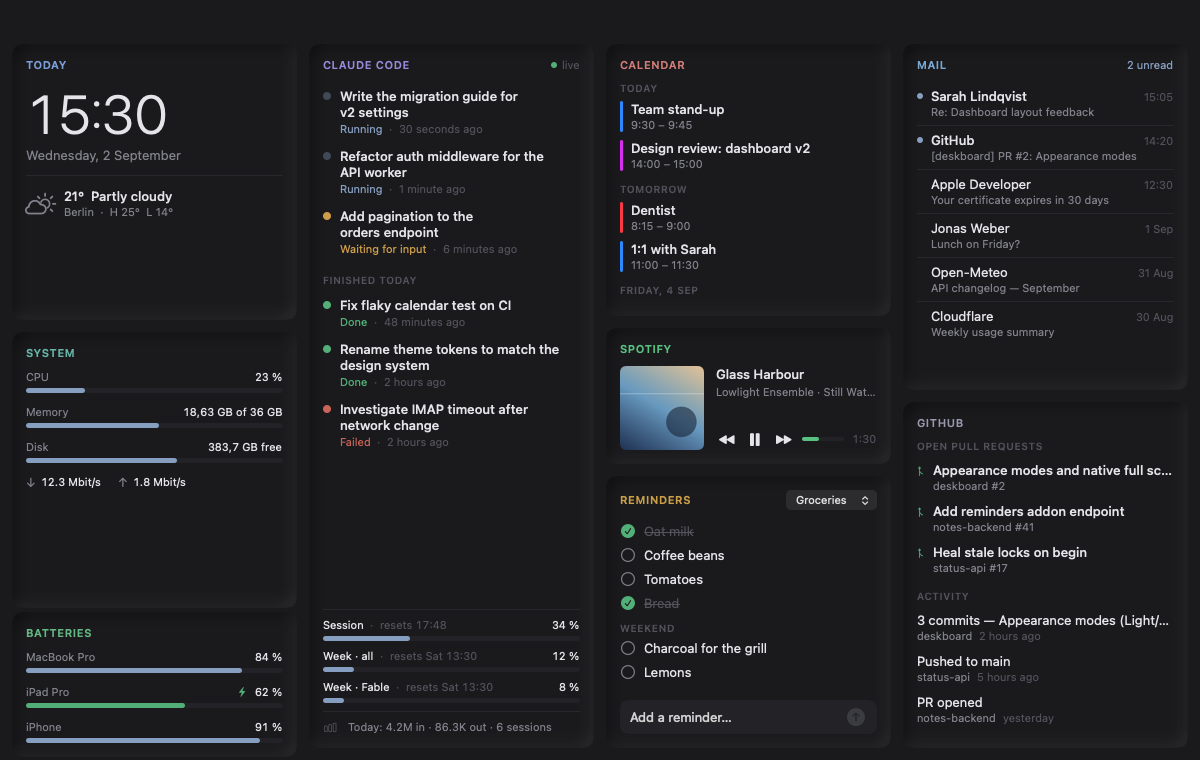
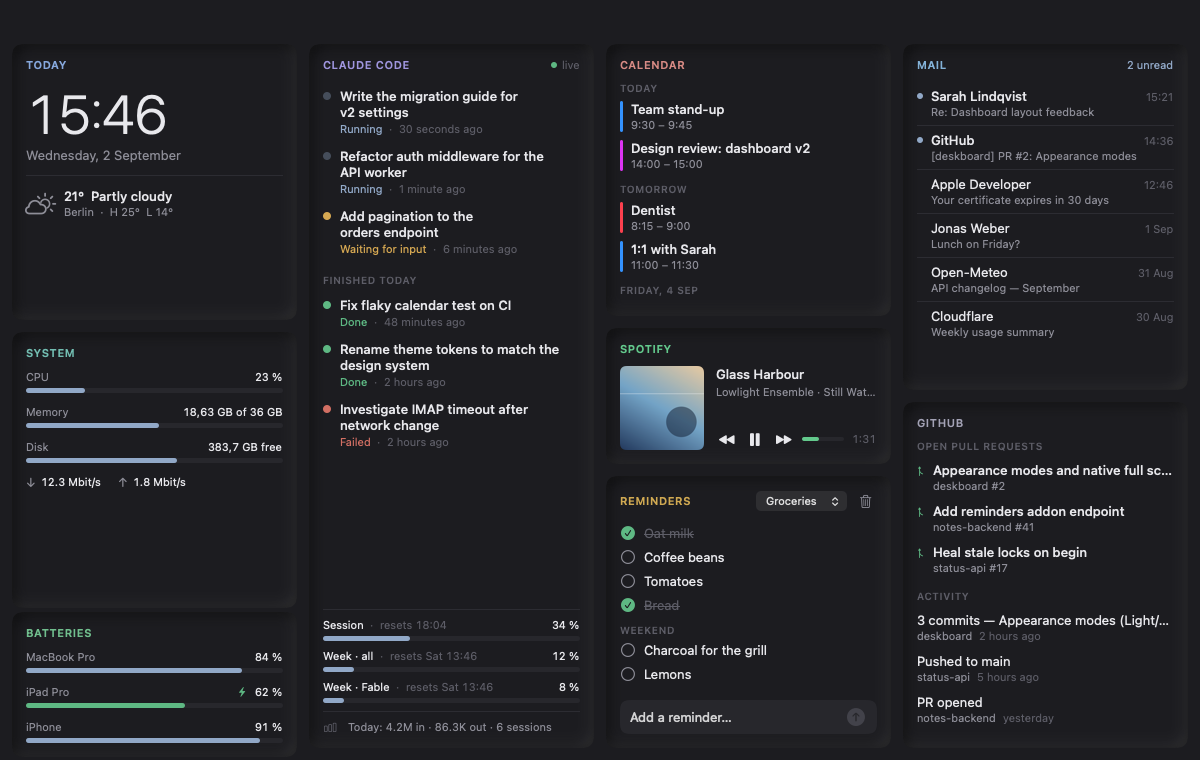
Reminders: delete completed items
Trash button in the widget header (shown when ticked-off todos exist),
confirmation dialog, then DELETE /api/addons/reminders/items?area=&done=true
on the inTouch reminders addon; optimistic removal with rollback and a
clear hint while the backend does not support the endpoint yet.

diff --git a/Deskboard/Widgets/Reminders/RemindersWidget.swift b/Deskboard/Widgets/Reminders/RemindersWidget.swift
@@ -5,23 +5,47 @@ import SwiftUI
 struct RemindersWidget: View {
     @State private var client = InTouchClient()
     @State private var newItemText = ""
+    @State private var confirmClear = false
 
     var body: some View {
         WidgetCard("Reminders", tint: Theme.tintReminders) {
             content
         } accessory: {
-            if client.areas.count > 1 {
-                Picker("", selection: Binding(
-                    get: { client.selectedArea ?? "" },
-                    set: { client.selectedArea = $0 }
-                )) {
-                    ForEach(client.areas) { area in
-                        Text(area.name).tag(area.id)
+            HStack(spacing: 8) {
+                if client.areas.count > 1 {
+                    Picker("", selection: Binding(
+                        get: { client.selectedArea ?? "" },
+                        set: { client.selectedArea = $0 }
+                    )) {
+                        ForEach(client.areas) { area in
+                            Text(area.name).tag(area.id)
+                        }
+                    }
+                    .pickerStyle(.menu)
+                    .controlSize(.small)
+                    .fixedSize()
+                }
+                if client.doneCount > 0 {
+                    Button {
+                        confirmClear = true
+                    } label: {
+                        Image(systemName: "trash")
+                            .font(.system(size: 12))
+                            .foregroundStyle(Theme.muted)
+                            .frame(width: 22, height: 22)
+                            .contentShape(Rectangle())
+                    }
+                    .buttonStyle(.plain)
+                    .help("Delete completed items")
+                    .confirmationDialog(
+                        "Delete \(client.doneCount) completed \(client.doneCount == 1 ? "item" : "items")?",
+                        isPresented: $confirmClear, titleVisibility: .visible
+                    ) {
+                        Button("Delete", role: .destructive) { Task { await client.deleteDone() } }
+                    } message: {
+                        Text("They are removed in the inTouch app as well.")
                     }
                 }
-                .pickerStyle(.menu)
-                .controlSize(.small)
-                .fixedSize()
             }
         }
         .task {

diff --git a/Deskboard/Widgets/Reminders/InTouchClient.swift b/Deskboard/Widgets/Reminders/InTouchClient.swift
@@ -60,6 +60,7 @@ final class InTouchClient {
                 .flatMap { $0["error"] as? String }
             switch status {
             case 401, 403: throw APIStatusError(message: "API key rejected — check Settings")
+            case 404 where method == "DELETE": throw APIStatusError(message: "Backend does not support clearing completed items yet")
             case 404: throw APIStatusError(message: "Reminders addon not available yet on the backend")
             default: throw APIStatusError(message: serverMessage ?? "inTouch error \(status)")
             }
@@ -137,6 +138,29 @@ final class InTouchClient {
             // Item IDs churn when the app pushes a fresh snapshot; a 404 here
             // usually means our list is stale — resync instead of just rolling back.
             await loadItems()
+        }
+    }
+
+    /// Number of ticked-off todos in the current list (headings never count).
+    var doneCount: Int { items.filter { $0.type == "text" && $0.done }.count }
+
+    /// "Clear completed" like in the inTouch app: removes every ticked-off todo of
+    /// the selected area; the app deletes them on its next sync.
+    func deleteDone() async {
+        guard let area = selectedArea, doneCount > 0 else { return }
+        let before = items
+        items.removeAll { $0.type == "text" && $0.done }
+        if Demo.active { return }
+        let safeArea = area.addingPercentEncoding(withAllowedCharacters: .alphanumerics) ?? ""
+        do {
+            _ = try await request("/api/addons/reminders/items?area=\(safeArea)&done=true", method: "DELETE")
+            await loadItems()
+        } catch let status as APIStatusError {
+            items = before
+            self.error = status.message
+        } catch {
+            items = before
+            self.error = "Could not delete completed items"
         }
     }
 

diff --git a/PROGRESS.md b/PROGRESS.md
@@ -6,6 +6,18 @@
 
 ## Aktueller Stand (2.9.2026)
 
+**Reminders „Erledigte löschen" (2.9.2026):** Papierkorb-Button in der Titelzeile des
+Reminders-Widgets (nur sichtbar, wenn abgehakte Todos da sind), Bestätigungsdialog wie in
+der App, dann `DELETE /api/addons/reminders/items?area=<id>&done=true`, optimistisch
+lokal entfernt, bei Fehler Rollback + Meldung. Backend-Seite (inTouch `reminders.js`):
+Soft-Delete `is_deleted=1, pending=1`, Spiegel blendet sofort aus, App löscht per
+Pending-Op (`deleted: true` → `ReminderStore.deleteItem`) und räumt per ack. **Neue
+Spalte** `is_deleted` → einmalig auf der Prod-D1: `ALTER TABLE api_reminder_items ADD COLUMN
+is_deleted INTEGER NOT NULL DEFAULT 0;` **Deploy + Migration standen am 2.9. noch aus**
+(Wrangler war mit dem Arbeits-Account eingeloggt) — bis dahin meldet der Button „Backend
+does not support clearing completed items yet" (404). App-Seite braucht einen neuen
+Device-Build.
+
 **Spotify-Widget (2.9.2026, uncommittet):** Neuntes Widget in der dritten Spalte zwischen
 Calendar und Reminders (feste Höhe 136): Albumcover links (84 pt), rechts Titel, „Artist ·
 Album" und eine Reihe mit ⏮ ⏯ ⏭ + Fortschrittsbalken + Position. Quelle: **Spotify Web API**

diff --git a/README.md b/README.md
@@ -20,7 +20,7 @@ its own — everything it shows comes from services you already use.
 | **Claude Code** | Live Claude Code sessions (running / waiting / done), `/usage` rate-limit bars, today's token totals | A small status API you host (contract below), the local Claude Code login, local transcripts |
 | **Calendar** | Next 7 days from every calendar in the macOS Calendar app | EventKit, read-only |
 | **Spotify** | What is playing on any of your devices: artwork, track, progress, previous / play-pause / next | Spotify Web API with your own developer app (PKCE login); controls need Premium |
-| **Reminders** | Checklists you can tick off and add to | inTouch reminders add-on (`X-API-Key`), optional |
+| **Reminders** | Checklists you can tick off, add to, and clear of completed items | inTouch reminders add-on (`X-API-Key`), optional |
 | **Mail** | Newest inbox messages and unread count | Built-in minimal IMAP client, read-only (`EXAMINE`, `BODY.PEEK`) |
 | **GitHub** | Your open pull requests and recent activity | GitHub REST API with a PAT or your `gh` CLI login |
 

diff --git a/CLAUDE.md b/CLAUDE.md
@@ -41,7 +41,8 @@ und die offenen Schritte.
   Rate-Limit-Balken (`ClaudeRateLimitService`) ↔ interner Anthropic-Endpunkt
   `/api/oauth/usage` mit dem Claude-Code-Token aus dem Keychain (`security`-CLI) — kann
   sich ohne Vorwarnung ändern; Parser bewusst tolerant, Details in PROGRESS.md.
-- **Reminders-Widget** ↔ inTouch `api/addons/reminders.js` (X-API-Key). Der Spiegel ist
+- **Reminders-Widget** ↔ inTouch `api/addons/reminders.js` (X-API-Key; GET areas/items, POST items,
+  PATCH items/:id, DELETE items?area=&done=true für „Erledigte löschen"). Der Spiegel ist
   Klartext, aber NUR für in der App pro Bereich freigegebene, LOKALE Bereiche — geteilte
   Bereiche bleiben E2E und tauchen hier nie auf. Diese Grenze nicht aufweichen.
 - **Spotify-Widget** ↔ Spotify Web API (`/v1/me/player`, Auth-Code + PKCE, eigene Developer-App
